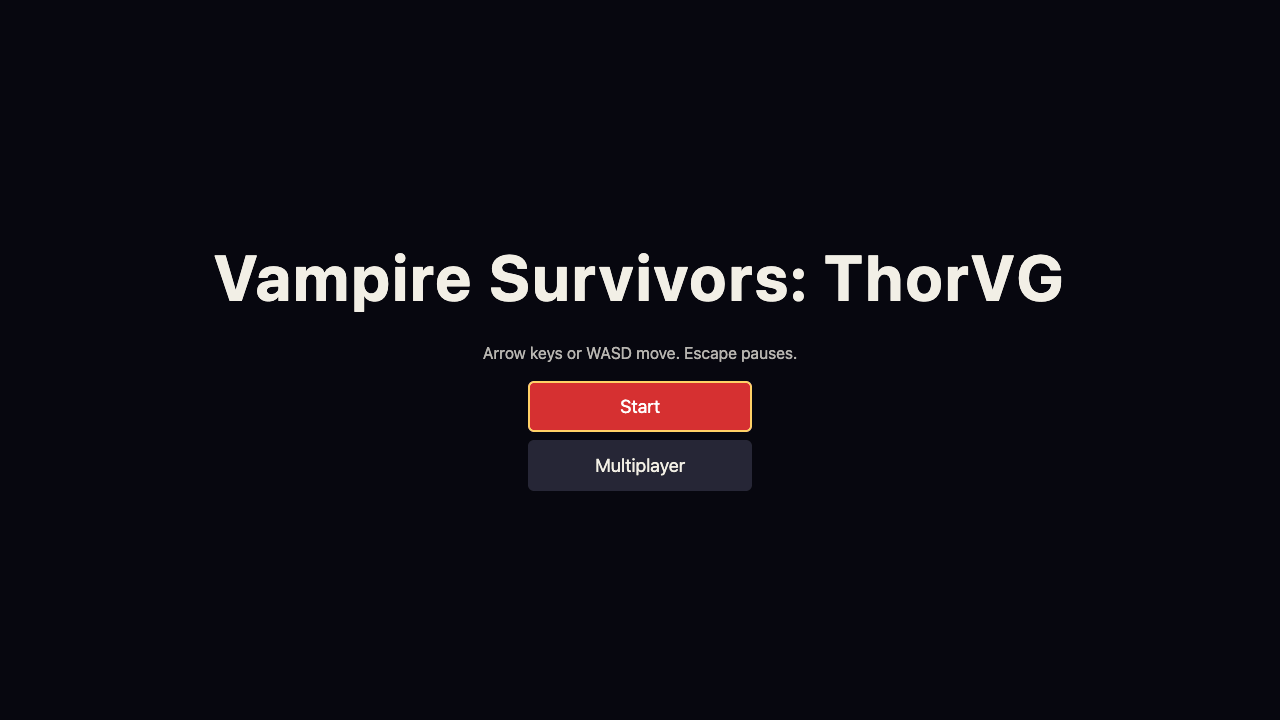
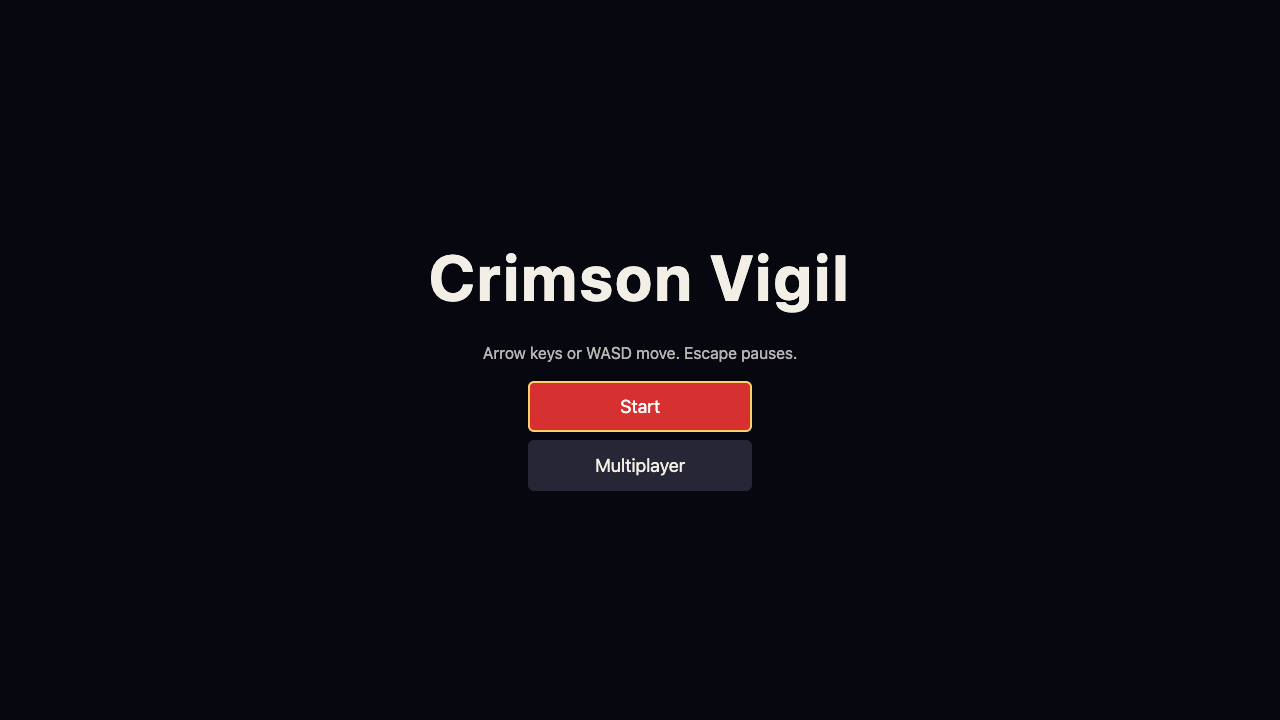
update: Rename the game to Crimson Vigil (#136)
## Summary

The game now has its own name, **Crimson Vigil**, everywhere a player
sees one. The title screen heading (`h1#title-heading`, DOM text through
`h()`/`textContent`, ADR 0009/0011) and the browser tab title (`<title>`
in `packages/client/index.html`) both read "Crimson Vigil" instead of
"Vampire Survivors: ThorVG", so the name no longer leans on the original
game's title (user decision, 2026-11-09).

The README heading is `# Crimson Vigil`, the pitch says "a
survivors-like browser game", and a new line under the heading explains
the repository name: "Repository: `GameJam-Vampire-Survivors` (the game
jam's working name)", so the repo name and the Pages URL still make
sense. `docs/images/title.png` is retaken from the renamed title screen
the same way #130 made it: headless real-GPU Chrome (`channel:
'chrome'`, renderer `gl`, no placeholders) at 1280×720 on the e2e dev
build, quantized to 256 colours with Pillow (9.8 KB). `CLAUDE.md` §
Project now states "The game's title is Crimson Vigil."

Unchanged, as the issue requires: the repository name, the Pages base
`/GameJam-Vampire-Survivors/` (ADR 0017), the `@vs/*` package names, the
server image name, the genre references in `CLAUDE.md`, the ADRs,
`REQUIREMENTS.md` and `docs/reference/gameplay.md`, and the ThorVG
credits. No unit test, e2e spec or verify-game feature file asserted the
old title, so none needed updating.

## How to verify

- `git grep -n 'Vampire Survivors: ThorVG'` returns nothing.
[…]

Changed region(s): [[0.1562, 0.3361, 0.8438, 0.4278]]

diff --git a/packages/client/src/main/ui/title.ts b/packages/client/src/main/ui/title.ts
@@ -24,7 +24,7 @@ export function mount(root: HTMLElement, props: TitleProps): Screen<TitleProps> 
     },
   });
   const el = h('section', { class: 'screen', 'aria-labelledby': 'title-heading' }, [
-    h('h1', { id: 'title-heading', text: 'Vampire Survivors: ThorVG' }),
+    h('h1', { id: 'title-heading', text: 'Crimson Vigil' }),
     h('p', { class: 'hint', text: 'Arrow keys or WASD move. Escape pauses.' }),
     h('div', { class: 'menu' }, [start, multiplayer]),
   ]);

diff --git a/packages/client/index.html b/packages/client/index.html
@@ -4,7 +4,7 @@
     <meta charset="UTF-8" />
     <meta name="viewport" content="width=device-width, initial-scale=1.0" />
     <link rel="icon" type="image/png" href="/ui/favicon.png" />
-    <title>Vampire Survivors: ThorVG</title>
+    <title>Crimson Vigil</title>
   </head>
   <body>
     <div id="app"></div>

diff --git a/CLAUDE.md b/CLAUDE.md
@@ -18,7 +18,7 @@ For a new contributor in a fresh clone. Nothing here depends on a particular mac
 
 ## Project
 
-A browser game in the style of Vampire Survivors, for single player and 2-player online versus play, rendered with ThorVG's `@thorvg/webcanvas`. Requirements are in `REQUIREMENTS.md`, written in Korean; ADRs cite its items by number. Every architectural choice is an ADR in `docs/adr/`. Read `docs/adr/README.md` first.
+A browser game in the style of Vampire Survivors, for single player and 2-player online versus play, rendered with ThorVG's `@thorvg/webcanvas`. The game's title is Crimson Vigil. Requirements are in `REQUIREMENTS.md`, written in Korean; ADRs cite its items by number. Every architectural choice is an ADR in `docs/adr/`. Read `docs/adr/README.md` first.
 
 Current state: the toolchain exists (pnpm workspace with `@vs/client`, `@vs/server` and `@vs/shared`, lint, format, tests, the pre-commit hook and CI's `pnpm check`), and the client boots: the main thread transfers the canvas to the game worker, which runs ThorVG (`gl`) and the fixed-step loop (#2). The server speaks the full room protocol (#18). The title's Multiplayer button leads through the character select to a nickname and room-code entry and a lobby where two players meet, ready up and see the host's countdown (#19); the countdown starts a versus match: both play their own world from the match seed with a live opponent panel, the server decides Win, Lose or Draw, and Rematch returns to the same lobby (#20); during the match both worlds show side by side in two equal panes, the opponent's drawn from the relayed view stream (#114, #115). In versus matches enemies occasionally drop interference items (Swarm, Gem Thief, Elite Call) whose effect the server routes to an opponent's world, with a banner naming the sender (#21). During a match each page streams a quantized view of its own world to the opponent through the server, kept in the opponent's worker for the split panes that #115 draws (#114, ADR 0018). The manifest asset library, cached masters, loading progress and development gallery are available (#3), with the 84-ID generated pixel pack, 36 native motion assets and the protected font (#76/#84). The catalog also retains the shape-only performance fixture (#22). Entity stores, a spatial grid and reusable render pools are available with a numeric stress scene (#6). After loading, a title screen starts the run: the player walks in eight directions with a centred camera over the tiled ground (#7), enemies spawn from the wave table, chase him and keep apart (#8), and contact damage leads to death and a results screen with Retry and Title; Escape or a hidden tab pauses, and a ThorVG HUD shows HP, the timer and kills (#9). The player starts with the Whip, `G` (dev) grants the Magic Wand, and weapons damage, knock back and kill enemies, which raises the kill count (#10). Killed enemies drop XP gems that the player pulls in; a full XP bar pauses the run for a level-up choice of new or upgraded weapons and passives (#11). The 8 passive items change one shared player stat block that every system reads (#12). All 8 base weapons are playable to level 8: Knife, Axe, Cross, King Bible, Fire Wand and Garlic join the Whip and the Magic Wand (#13). Between the title and the run a character select offers Warden, Ember, Swift and Aurelia, each with its own starting weapon and stat modifiers (#14). Braziers around the player break under any weapon and drop Floor Chicken, Rosary, Orologion, Vacuum or Little Clover (#16). Bosses and elites drop treasure chests whose DOM overlay shows 1, 3 or 5 rewards, including the 8 evolutions from 5:00, and bosses are tethered to the player (#15). The stage is complete: 15 waves over six enemies, elites, swarms, `reaper5` at 5:00 and `reaper10` at 10:00; at 15:00 the screen clears and Death appears, and the results screen says "Stage cleared" or "Game over" with the character and each weapon's damage (#17). On every push to `main`, `deploy.yml` publishes the client to GitHub Pages and the server's runtime image to GHCR; the owner runs the server by hand, and its public domain is not set up yet (#23, ADR 0017). A perf overlay (`?perf`, also in production) and named `?stress=<name>` scenarios measure frame timing; the measurements in `docs/reference/performance.md` keep the caps at 400/600/400 and answer the Lottie-per-enemy question (#22). Every boot first plays the 7-second "Powered by ThorVG" Lottie (`ui.splash`) in the worker while the rest of the assets load; the title follows once both are done, and a slower load holds the last frame with `Loading n/total` under the logo (#126, ADR 0020). Work is planned as GitHub issues in phases (`docs/roadmap.md`).
 

diff --git a/README.md b/README.md
@@ -1,6 +1,8 @@
-# GameJam Vampire Survivors
+# Crimson Vigil
 
-Survive 15 minutes against ever larger hordes while your weapons fire on their own: a Vampire Survivors-style browser game for one player, or two in online versus, drawn with ThorVG.
+Repository: `GameJam-Vampire-Survivors` (the game jam's working name)
+
+Survive 15 minutes against ever larger hordes while your weapons fire on their own: a survivors-like browser game for one player, or two in online versus, drawn with ThorVG.
 
 **[Play in your browser](https://ossca-thorvg.github.io/GameJam-Vampire-Survivors/)**: single player works online now; versus runs locally until the game server is public.
 
